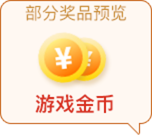
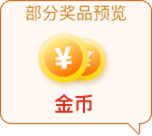
修改ui

Changed region(s): [[0.2368, 0.6765, 0.7632, 0.8529]]

diff --git a/src/views/duration/App.vue b/src/views/duration/App.vue
@@ -647,11 +647,11 @@ export default {
           left: -.3rem;
           top: -.4rem;
           z-index: 4;
-          width: .94rem;
-          height: 1.06rem;
+          width: 1.3rem;
+          height: 1.12rem;
           img {
             position: absolute;
-            left: 0;
+            left: -.2rem;
             right: 0;
             width: 100%;
             height: 100%;
